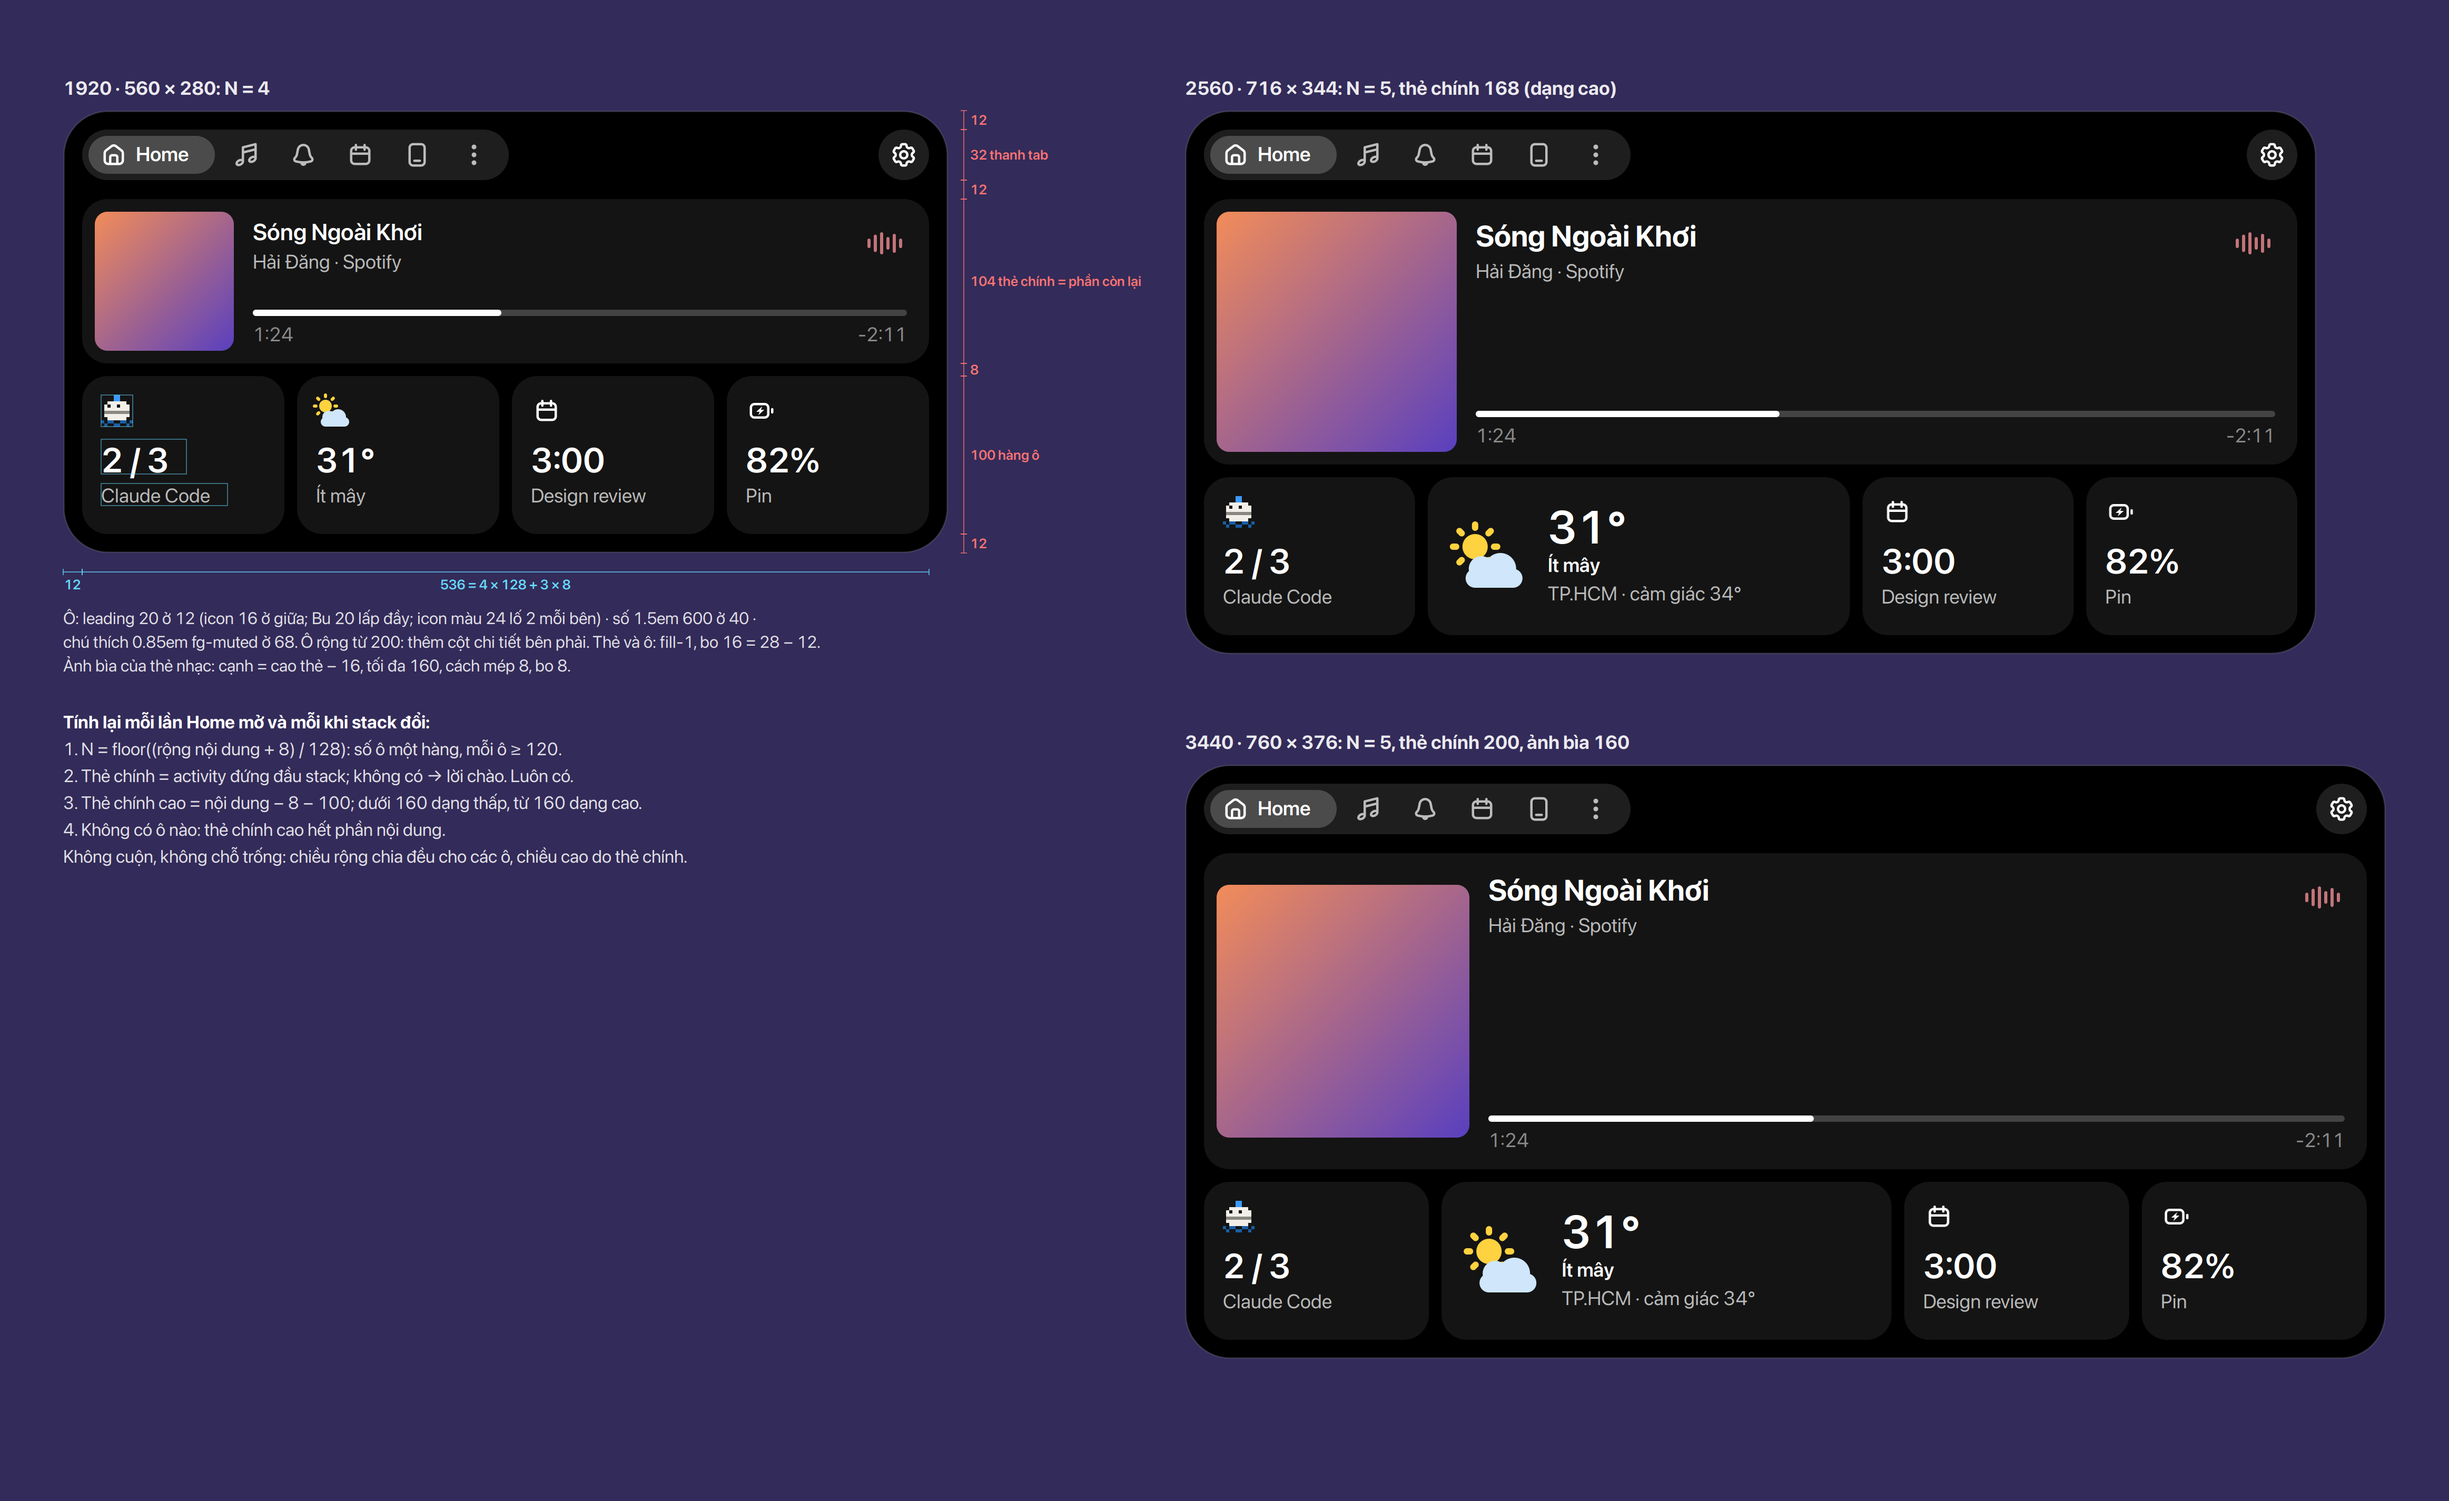
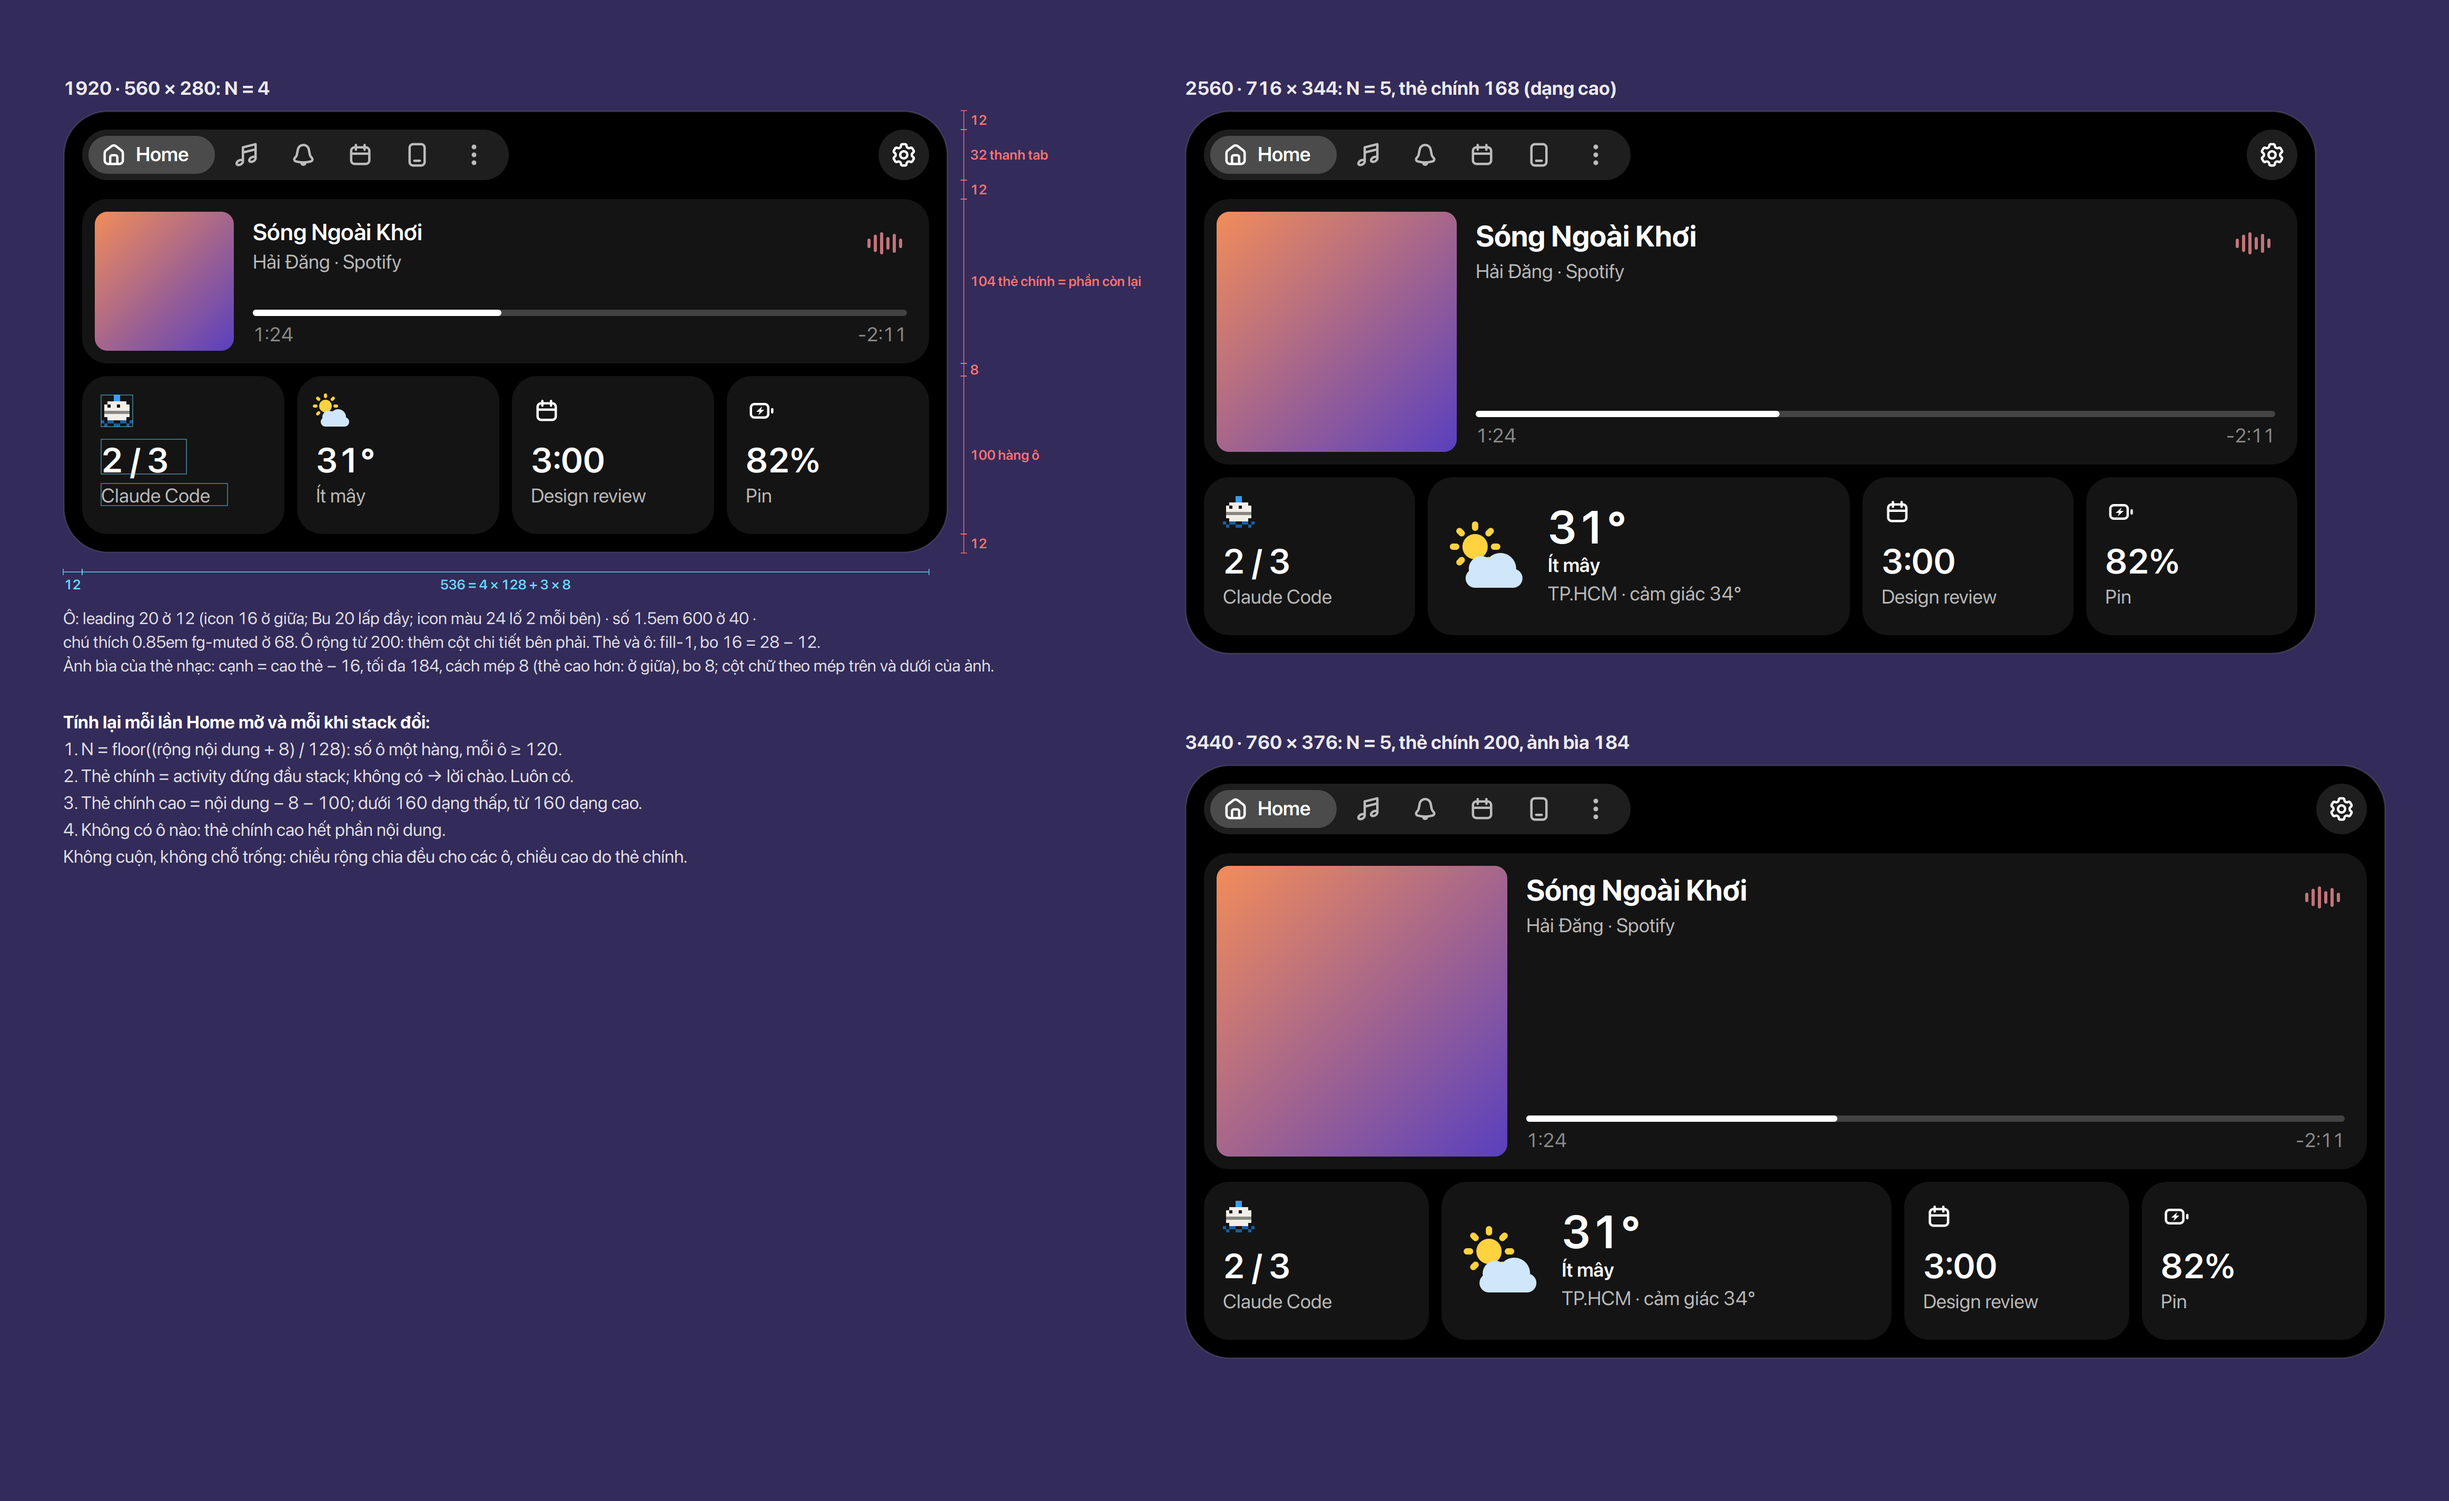
fix(media): the music card's cover fills 3440's card, the text keeps to it
The cover was capped at 160, so 3440's card (200) centred it and the title sat 20 above
its top. The cap is now 184, the whole height of that card; a taller card (no tiles under
it) still centres its cover, and the text column then pads to the cover's top and bottom.
design/home and SPEC (Home, "The main card") updated, images redrawn. Seen in the headless
Shell at 3440 and 2560.

Refs #258

Changed region(s): [[0.4989, 0.5621, 0.7172, 0.7807], [0.3118, 0.4372, 0.4054, 0.4684], [0.2183, 0.4372, 0.2806, 0.4684]]

diff --git a/docs/design/home/render/home.js b/docs/design/home/render/home.js
@@ -19,7 +19,7 @@ const COLOUR = GLib.build_filenamev([GLib.path_get_dirname(GLib.filename_from_ur
     '..', '..', '..', '..', 'src', 'buoy@murilegus', 'icons', 'color']);
 
 // ---- the rules ------------------------------------------------------------------------------------
-const PAD = 12, HEAD = 56, GAP = 8, TILE_H = 100, TILE_MIN = 120, WIDE = 200, TALL = 160, ART_MAX = 160;
+const PAD = 12, HEAD = 56, GAP = 8, TILE_H = 100, TILE_MIN = 120, WIDE = 200, TALL = 160, ART_MAX = 184;
 // tiles a row holds, each at least TILE_MIN with gaps of 8: 4 at 1920, 5 at 2560 and 3440
 const fitN = cw => Math.floor((cw + GAP) / (TILE_MIN + GAP));
 // the row: activities first (Missed leading), one unit each, N − 1 and "+K" when they overflow;
@@ -134,12 +134,13 @@ function heroMusic(x, y, w, h) {
     const tx = x + 8 + s + 12, x1 = x + w - 14;
     // low and tall alike (2026-11-13, Ethan: "giống 1920 nhưng to lên"): the slot top right, the
     // bar at the foot of the text column; tall, the cover and the title larger
-    const tall = h >= TALL;
-    text(SAMPLE.track, tx, y + 12, tall ? {sz: 14, wt: 700} : {wt: 600});
-    text(SAMPLE.sub, tx, y + (tall ? 38 : 32), {sz: SUB, a: C.FG_MUTED});
-    slot(x + w - 28, y + 28);
-    bar(tx, y + h - 34, x1 - tx);
-    text('1:24', tx, y + h - 26, {sz: SUB, a: C.FG_SUBTLE}); text('-2:11', x1, y + h - 26, {sz: SUB, a: C.FG_SUBTLE, right: true});
+    // the text column keeps to the cover's top and bottom (a card over 176 centres its cover)
+    const tall = h >= TALL, by = ay + s;
+    text(SAMPLE.track, tx, ay + 4, tall ? {sz: 14, wt: 700} : {wt: 600});
+    text(SAMPLE.sub, tx, ay + (tall ? 30 : 24), {sz: SUB, a: C.FG_MUTED});
+    slot(x + w - 28, ay + 20);
+    bar(tx, by - 26, x1 - tx);
+    text('1:24', tx, by - 18, {sz: SUB, a: C.FG_SUBTLE}); text('-2:11', x1, by - 18, {sz: SUB, a: C.FG_SUBTLE, right: true});
 }
 function heroAsk(x, y, w, h) {
     fill([1, 1, 1, C.FILL1], x, y, w, h, 16);
@@ -363,7 +364,7 @@ if (MODE === 'anatomy') {
     [[tX + 12, tY + 12, 20, 20], [tX + 12, tY + 40, 54, 22], [tX + 12, tY + 68, 80, 14]].forEach(r => cr.rectangle(...r)); cr.stroke();
     note(ax, ay + 314, ['Ô: leading 20 ở 12 (icon 16 ở giữa; Bu 20 lấp đầy; icon màu 24 lố 2 mỗi bên) · số 1.5em 600 ở 40 ·',
         'chú thích 0.85em fg-muted ở 68. Ô rộng từ 200: thêm cột chi tiết bên phải. Thẻ và ô: fill-1, bo 16 = 28 − 12.',
-        'Ảnh bìa của thẻ nhạc: cạnh = cao thẻ − 16, tối đa 160, cách mép 8, bo 8.'], .85);
+        'Ảnh bìa của thẻ nhạc: cạnh = cao thẻ − 16, tối đa 184, cách mép 8 (thẻ cao hơn: ở giữa), bo 8; cột chữ theo mép trên và dưới của ảnh.'], .85);
     const rx = ax, ry = ay + 380;
     ['Tính lại mỗi lần Home mở và mỗi khi stack đổi:',
      '1. N = floor((rộng nội dung + 8) / 128): số ô một hàng, mỗi ô ≥ 120.',
@@ -374,7 +375,7 @@ if (MODE === 'anatomy') {
         text(l, rx, ry + i * 17, {sz: 8.5, a: i ? .85 : 1, wt: i ? 400 : 700}));
     const bx = ax + 560 + 150;
     home(bx, ay, 716, 344, 'music', ACTS, G, '2560 · 716 × 344: N = 5, thẻ chính 168 (dạng cao)');
-    home(bx, ay + 344 + 70, 760, 376, 'music', ACTS, G, '3440 · 760 × 376: N = 5, thẻ chính 200, ảnh bìa 160');
+    home(bx, ay + 344 + 70, 760, 376, 'music', ACTS, G, '3440 · 760 × 376: N = 5, thẻ chính 200, ảnh bìa 184');
     surf.writeToPNG(out);
 }
 

diff --git a/src/buoy@murilegus/lib/modules/media/home.js b/src/buoy@murilegus/lib/modules/media/home.js
@@ -8,8 +8,9 @@ import {eqGlyph, eqLeaving} from '../../kit/ui/present/motion.js';
 import {markShared} from '../../kit/ui/present/flight.js';
 import {livePosition, mediaTimes, element} from '../../kit/model/presentation.js';
 
-/** The cover: the card's height less 8 above and below, at most 160 (design/home). */
-const ART_MAX = 160;
+/** The cover: the card's height less 8 above and below, at most 184 — the whole height of
+ * 3440's card (200); only a card with no tiles under it is taller (design/home, 2026-11-13). */
+const ART_MAX = 184;
 const ART_INSET = 8;
 const ART_RADIUS = 8;
 
@@ -65,9 +66,13 @@ export class MediaCard {
         const cover = markShared(new St.Bin({style_class: 'buoy-home-media-cover', width: size, height: size, child: art}), 'leading', a);
         this._box.add_child(cover);
 
+        // a card taller than its cover (184 at most) centres the cover: the text column keeps
+        // to the cover's top and bottom, as in the low card (design/home, 2026-11-13)
+        const inset = Math.max(0, Math.floor((height - 2 * ART_INSET - size) / 2));
         const col = new St.BoxLayout({
             style_class: 'buoy-home-media-text', orientation: Clutter.Orientation.VERTICAL,
             x_expand: true, y_expand: true,
+            style: inset > 0 ? `padding-top: ${4 + inset}px; padding-bottom: ${4 + inset}px;` : null,
         });
         const head = new St.BoxLayout({x_expand: true});
         const lines = new St.BoxLayout({orientation: Clutter.Orientation.VERTICAL, x_expand: true});

diff --git a/docs/SPEC.md b/docs/SPEC.md
@@ -673,9 +673,9 @@ and never scrolls (`kit/model/home.js` planHome, `kit/ui/home.js`).
   104 / 168 / 200 at 1920 / 2560 / 3440; with no tile, all of it.
 - **The main card** is the stack's first activity with its buttons; with none, the
   **greeting** (Bu waving, "Good afternoon, Ethan", the date). A player has a card of its
-  own (`modules/media/home.js`: the cover as tall as the card less 16, at most 160; under
-  160 the transport at the top right and the bar at the foot, from 160 the title larger and
-  the transport centred under the bar); an ask is its card with its buttons at the bottom
+  own (`modules/media/home.js`: the cover as tall as the card less 16, at most 184; play /
+  pause in one slot at the top right, the equaliser at rest, and the bar at the foot; from 160
+  the same, the title larger (2026-11-13)); an ask is its card with its buttons at the bottom
   right; any other activity shows its compact in the card (or, without one, its leading,
   text and value). A click on it opens its tab.
 - **The tiles** (fill-1, radius 16): N = floor((row + 8) / 128) a row — 4 at 1920, 5 at
